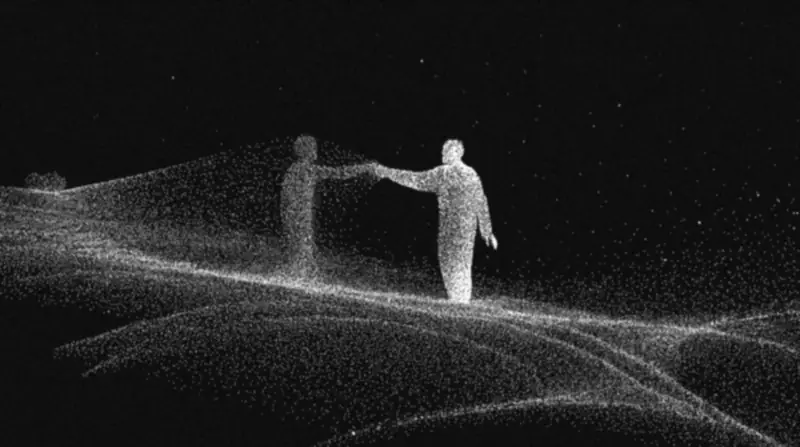
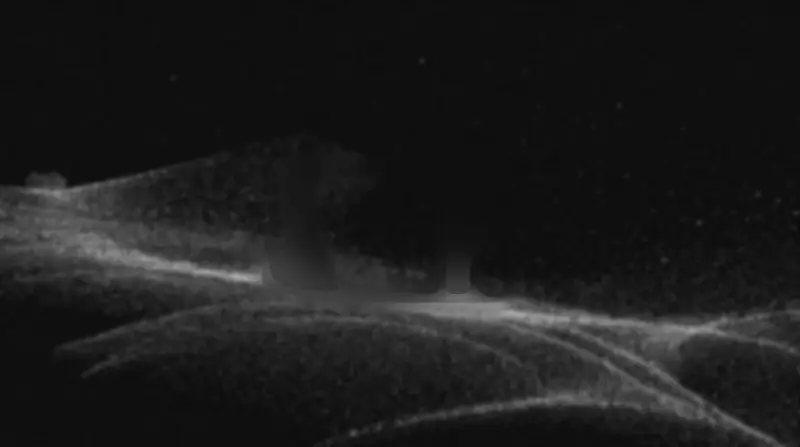
GTM hero: redraw the centre pair in the new figure style
- Original pair removed from the background (gap filled from the
  surrounding brightness); scene image now ~6 KB
- Centre pair drawn from the reaching figure, mirrored so their hands
  meet; always visible and part of the pre-drawn landscape
- Threads from found figures now end at the handshake
- One hidden figure moved back on the ridge to clear the pair
- Dissolving figures' dust fades out fully
- Phones: landscape lowered so the pair stands below the text

Claude-Session: https://claude.ai/code/session_01LQpNsWtgBhWj6xCzPc9Jfm

diff --git a/client/src/components/gtm-searchlight.tsx b/client/src/components/gtm-searchlight.tsx
@@ -21,8 +21,10 @@ import standSrc from "@/assets/images/gtm-figure-stand.png";
 // Source scene coordinates (the original image was 1200×670)
 const SW = 1200;
 const SH = 670;
-const MAIN_HAND: [number, number] = [568, 258];
-const MAIN_H = 233; // main figure height in scene px
+// The centre pair (always visible), drawn from the reaching figure: the main figure stands at
+// MAIN_FEET facing left; its partner faces right and is placed so their hands meet.
+const MAIN_FEET: [number, number] = [695, 442];
+const MAIN_H = 233; // main figure height in scene px; hidden figures are scaled relative to it
 // Which way the figure images face
 const MASK_FACING: "left" | "right" = "right";
 
@@ -37,7 +39,7 @@ const ANCHORS: Record<Kind, { footU: number; handV: number }> = {
 const FIGS: { x: number; y: number; s: number; face: "left" | "right"; kind: Kind }[] = [
   { x: 175, y: 470, s: 0.6, face: "right", kind: "stand" },
   { x: 340, y: 590, s: 1.0, face: "right", kind: "reach" },
-  { x: 520, y: 372, s: 0.42, face: "right", kind: "reach" },
+  { x: 452, y: 332, s: 0.36, face: "right", kind: "reach" },
   { x: 870, y: 470, s: 0.7, face: "left", kind: "reach" },
   { x: 1135, y: 385, s: 0.45, face: "left", kind: "stand" },
   { x: 1040, y: 632, s: 1.0, face: "left", kind: "reach" },
@@ -106,8 +108,10 @@ export function GtmSearchlight({ avoidRef }: { avoidRef?: RefObject<HTMLElement 
       const sc = Math.max(W / SW, H / SH);
       const focusX = W < 700 ? 0.55 : 0.5;
       const ox = Math.min(0, Math.max(W - SW * sc, W / 2 - SW * focusX * sc));
-      const oy = H - SH * sc;
       const tb = avoidBox();
+      let oy = H - SH * sc;
+      // Phones: lower the landscape so the centre pair stands below the text, not behind it
+      if (W < 768 && tb) oy = Math.max(oy, tb.b + 16 - (MAIN_FEET[1] - MAIN_H) * sc);
       const dim = (x: number, y: number) => {
         if (!tb) return 1;
         const dx = Math.max(tb.l - x, 0, x - tb.r);
@@ -136,9 +140,59 @@ export function GtmSearchlight({ avoidRef }: { avoidRef?: RefObject<HTMLElement 
         ph[n] = Math.random() * 6.28;
         n++;
       }
-      const x = bx.subarray(0, n);
-      const y = by.subarray(0, n);
-      const b = bb.subarray(0, n);
+      // The centre pair: two reaching figures whose hands meet, drawn as part of the landscape
+      const pairX: number[] = [];
+      const pairY: number[] = [];
+      const pairB: number[] = [];
+      {
+        const mask = masks.reach;
+        const { footU, handV } = ANCHORS.reach;
+        const hgt = MAIN_H * sc;
+        const wid = hgt * (mask.w / mask.h);
+        const top = oy + MAIN_FEET[1] * sc - hgt;
+        // main figure faces left
+        const mainFlip = MASK_FACING !== "left";
+        const mainLeft = ox + MAIN_FEET[0] * sc - (mainFlip ? 1 - footU : footU) * wid;
+        mainHand = [mainLeft, top + handV * hgt];
+        // partner faces right, hand just touching the main figure's hand
+        const partFlip = MASK_FACING !== "right";
+        const partLeft = mainLeft - wid + 3 * sc;
+        const count = Math.round(5200 * Math.min(1.4, sc));
+        for (const [left, flip] of [
+          [mainLeft, mainFlip],
+          [partLeft, partFlip],
+        ] as const) {
+          let k = 0;
+          let tries = 0;
+          while (k < count && tries < count * 40) {
+            tries++;
+            const u = Math.random();
+            const v = Math.random();
+            const L = lum(mask, flip ? 1 - u : u, v);
+            if (L < 0.15 || Math.random() > L * 1.4) continue;
+            const px = left + u * wid;
+            const py = top + v * hgt;
+            pairX.push(px);
+            pairY.push(py);
+            pairB.push(Math.min(1, 0.5 + L * 0.8));
+            k++;
+          }
+        }
+      }
+      const total = n + pairX.length;
+      const x = new Float32Array(total);
+      const y = new Float32Array(total);
+      const b = new Float32Array(total);
+      const phAll = new Float32Array(total);
+      x.set(bx.subarray(0, n));
+      y.set(by.subarray(0, n));
+      b.set(bb.subarray(0, n));
+      phAll.set(ph.subarray(0, n));
+      x.set(pairX, n);
+      y.set(pairY, n);
+      b.set(pairB, n);
+      for (let i = n; i < total; i++) phAll[i] = Math.random() * 6.28;
+      n = total;
 
       // Draw the still landscape once
       const img = document.createElement("canvas");
@@ -157,7 +211,7 @@ export function GtmSearchlight({ avoidRef }: { avoidRef?: RefObject<HTMLElement 
       const bins: number[][] = Array.from({ length: cols * rows }, () => []);
       for (let i = 0; i < n; i++) bins[Math.min(rows - 1, (y[i] / CELL) | 0) * cols + Math.min(cols - 1, (x[i] / CELL) | 0)].push(i);
       const tw = Array.from({ length: Math.min(1800, n) }, () => (Math.random() * n) | 0);
-      base = { x, y, b, ph: ph.subarray(0, n), img, bins, cols, rows, tw };
+      base = { x, y, b, ph: phAll, img, bins, cols, rows, tw };
 
       // Hidden figures: each dot rises from the dust at the figure's feet
       figs = FIGS.map((f) => {
@@ -191,7 +245,6 @@ export function GtmSearchlight({ avoidRef }: { avoidRef?: RefObject<HTMLElement 
         const hand: [number, number] = [f.face === "right" ? left + wid : left, top + handV * hgt];
         return { cx: left + wid / 2, cy: top + hgt / 2, hand, pts, r: 0, d: dim(left + wid / 2, top + hgt / 2), kind: f.kind };
       });
-      mainHand = [ox + MAIN_HAND[0] * sc, oy + MAIN_HAND[1] * sc];
       light.R = Math.max(120, Math.min(200, W * 0.12));
       if (!light.user) {
         light.x = light.tx = W * 0.62;
@@ -248,7 +301,7 @@ export function GtmSearchlight({ avoidRef }: { avoidRef?: RefObject<HTMLElement 
         for (const p of f.pts) {
           const q = ease(Math.max(0, Math.min(1, (f.r - p.delay) / 0.55)));
           const jx = Math.sin(t * 0.002 + p.tx) * (1 - q) * 3;
-          const a = (0.06 + 0.72 * q) * p.b * Math.max(0.35, f.d);
+          const a = (0.06 + 0.72 * q) * p.b * Math.max(0.35, f.d) * Math.min(1, f.r * 5);
           ctx!.fillStyle = STYLES[Math.min(15, (a * 16) | 0)];
           ctx!.fillRect(p.sx + (p.tx - p.sx) * q + jx, p.sy + (p.ty - p.sy) * q, 1.5, 1.5);
         }
